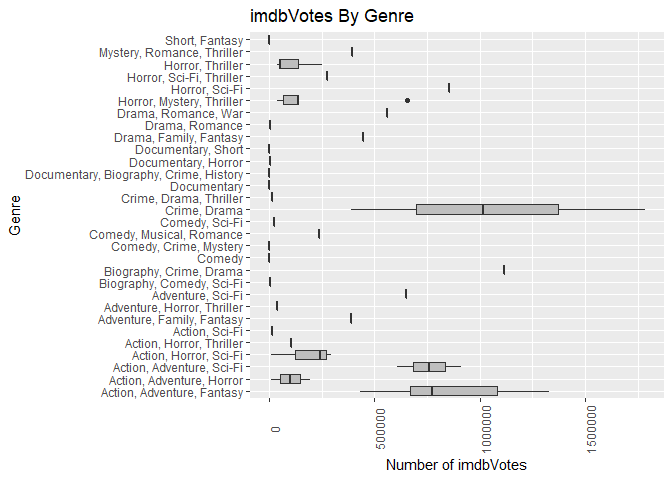
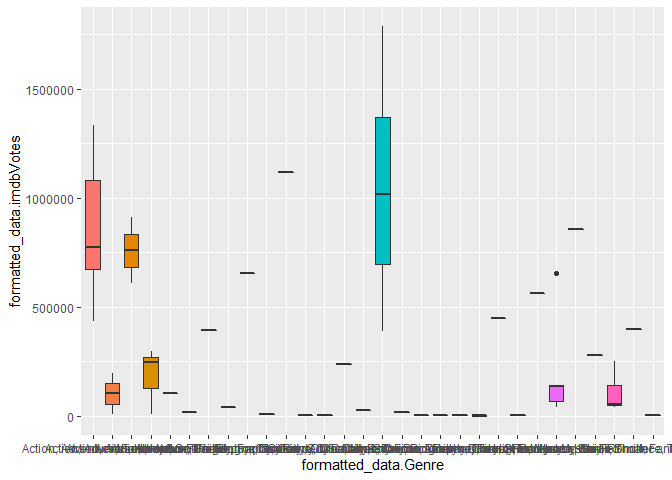
12:58_6_25_2022

diff --git a/README.md b/README.md
@@ -792,15 +792,31 @@ length(genre_list) #there are 30 different genres
 
     ## [1] 30
 
+Let’s make a box plot showing the spread of the number of imdbVotes for
+every genre:
+
 ``` r
-g <- ggplot(B, aes(x = formatted_data.Genre, y = formatted_data.imdbVotes))
-g + geom_boxplot(fill = "grey") +
-  theme(axis.text.x = element_text(angle = 90)) +
-  labs(x = "Genre", title = "imdbVotes By Genre", y="Number of imdbVotes") +
-  coord_flip()
+B %>%
+  ggplot(aes(x = formatted_data.Genre, y = formatted_data.imdbVotes, fill = formatted_data.Genre)) +
+  geom_boxplot() +
+  theme(legend.position = "none")
 ```
 
 ![](README_files/figure-gfm/12_29_6_25_2022-1.png)<!-- -->
+
+``` r
+# g <- ggplot(B, aes(x = formatted_data.Genre, y = formatted_data.imdbVotes,fill=formatted_data.Genre))
+# g + geom_boxplot() +
+#   stat_summary(fun.y = mean, geom = "line",
+#                lwd = 1.5, aes(group = roof, col = roof))
+#   
+#   
+#   theme(axis.text.x = element_text(angle = 90)) +
+#   labs(x = "Genre", title = "imdbVotes By Genre", y="Number of imdbVotes") +
+#   coord_flip()
+```
+
+It looks like the most spread, or variance, is “Crime, Drama”.
 
 ``` r
 mat1=NULL
